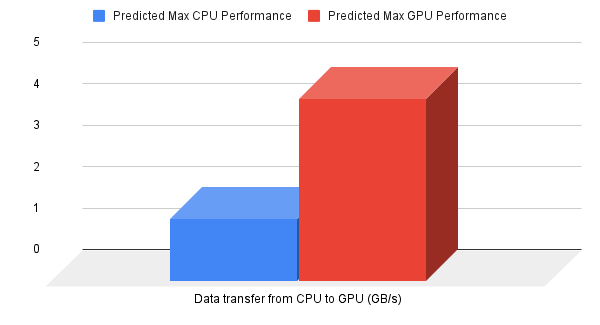
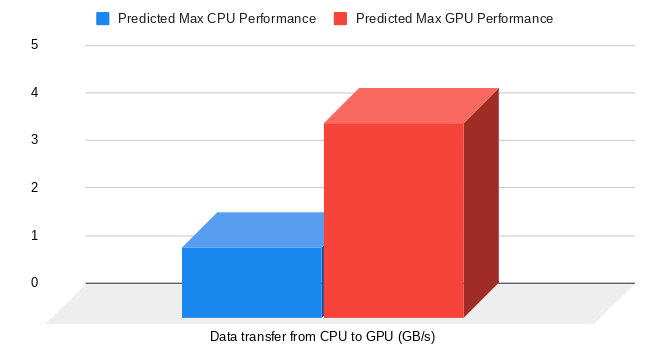
updated graphs and added graph slides

diff --git a/lab3/presentation/gpu.tex b/lab3/presentation/gpu.tex
@@ -165,6 +165,24 @@ add_char (int iter, char scale, global char *out)
   \end{alertblock}
 \end{frame}
 
+\begin{frame}{8-bit and Floating-point Add Results}
+
+\begin{center}
+\includegraphics[width=1\textwidth]{add.png}
+\end{center}
+\end{frame}
+
+\begin{frame}{Sequential Results}
+\begin{center}
+\includegraphics[width=1\textwidth]{sequential.png}
+\end{center}
+\end{frame}
+
+\begin{frame}{Random Load Results}
+\begin{center}
+\includegraphics[width=1\textwidth]{random.png}
+\end{center}
+\end{frame}
 %%% Local Variables:
 %%% mode: latex
 %%% TeX-master: "presentation"
